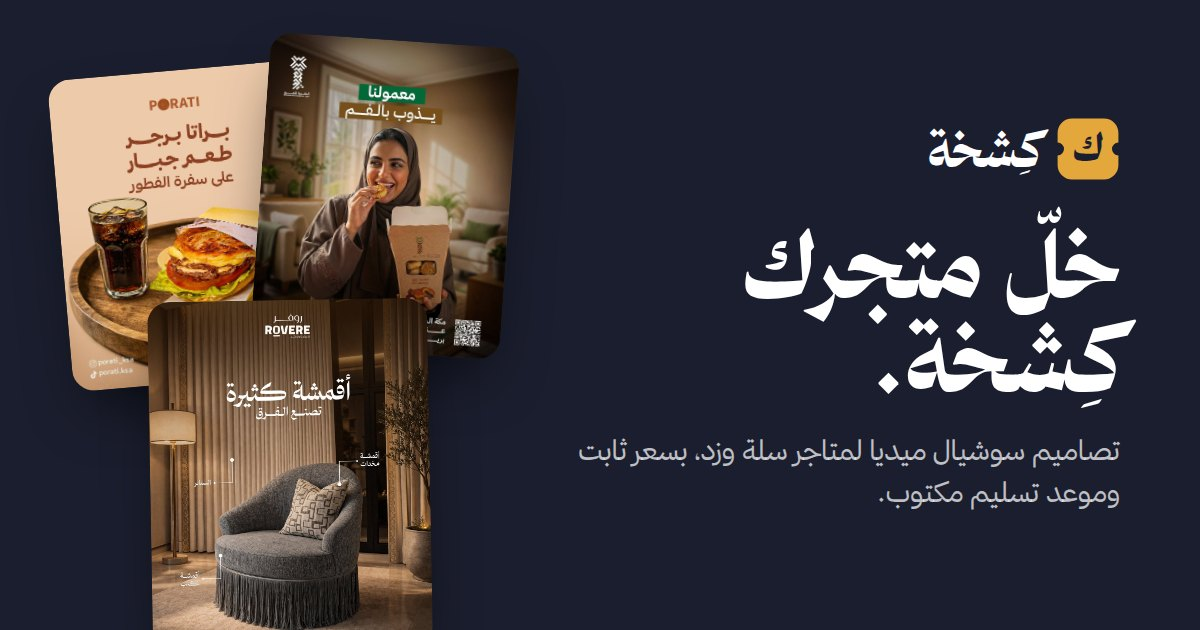
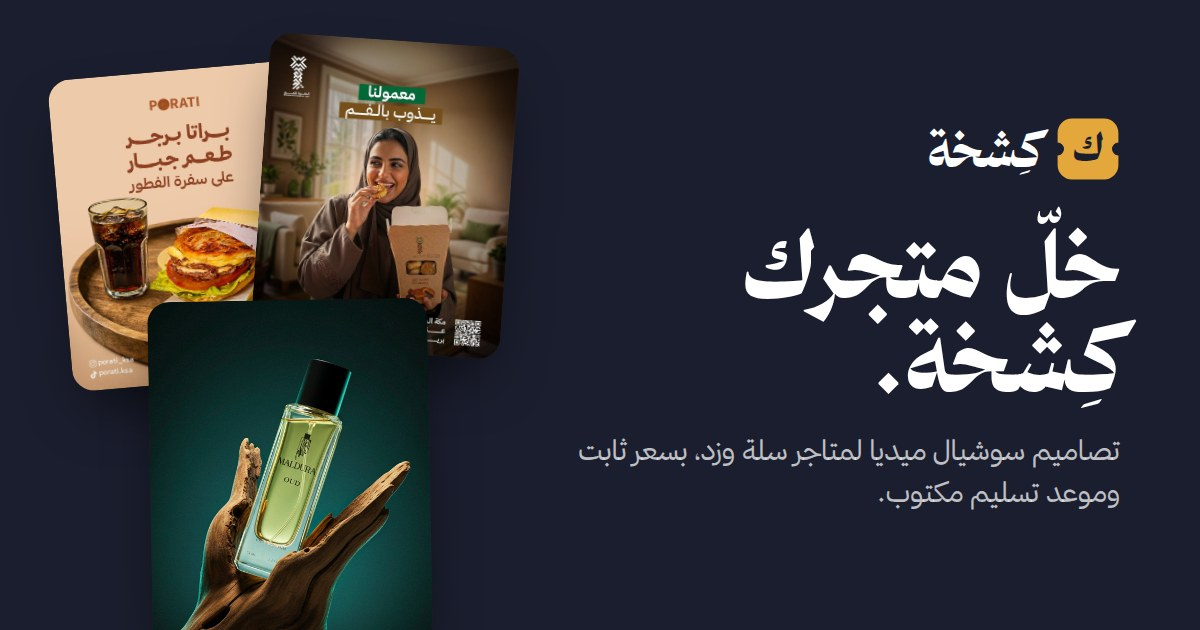
Remove Rovere work, new preview image

Changed region(s): [[0.1233, 0.4524, 0.37, 1.0]]

diff --git a/index.html b/index.html
@@ -284,7 +284,7 @@ footer .wrap{display:flex;flex-wrap:wrap;justify-content:space-between;gap:14px;
         </div>
       </div>
       <div class="stack">
-        <figure class="s2"><img src="img/work/rovere-2.jpg" alt="إعلان أقمشة روفر: كرسي منجّد بقماش رمادي" width="1000" height="1333"></figure>
+        <figure class="s2"><img src="img/work/tomor-2.jpg" alt="إعلان تمور مكة: معمول يذوب بالفم" width="1000" height="1250"></figure>
         <figure class="s1"><img src="img/work/maalem-4.jpg" alt="إعلان عطر معالم: زجاجة عود فوق خشب" width="1000" height="1250"></figure>
         <figure class="s3"><img src="img/work/essence-3.jpg" alt="بانر عطور إسنس فوق مدينة الرياض ليلًا" width="1200" height="600"></figure>
         <div class="ticket slip" role="note">
@@ -298,7 +298,7 @@ footer .wrap{display:flex;flex-wrap:wrap;justify-content:space-between;gap:14px;
     </div>
   </section>
 
-  <div class="brands"><div class="wrap"><small>صمّمنا لعلامات منها</small><span>تمور مكة</span><span>بوراتي</span><span>روفر</span><span>معالم</span><span>إسنس</span></div></div>
+  <div class="brands"><div class="wrap"><small>صمّمنا لعلامات منها</small><span>تمور مكة</span><span>بوراتي</span><span>معالم</span><span>إسنس</span></div></div>
 
   <section>
     <div class="wrap">
@@ -328,7 +328,7 @@ footer .wrap{display:flex;flex-wrap:wrap;justify-content:space-between;gap:14px;
 
   <section id="work" style="padding-top:0">
     <div class="wrap">
-      <div class="sec-head rv"><h2>من شغلنا</h2><p>إعلانات منتجات صمّمناها لمتاجر أغذية وعطور وأقمشة.</p></div>
+      <div class="sec-head rv"><h2>من شغلنا</h2><p>إعلانات منتجات صمّمناها لمتاجر تمور وعطور ومطاعم.</p></div>
 
       <article class="case rv">
         <div class="case-head"><h3>تمور مكة</h3><p>تمور ومعمول · إعلانات منتج ومحتوى تفاعلي</p></div>
@@ -338,11 +338,6 @@ footer .wrap{display:flex;flex-wrap:wrap;justify-content:space-between;gap:14px;
       <article class="case rv">
         <div class="case-head"><h3>بوراتي</h3><p>مطعم برجر · إعلانات منتج وحملة رمضان</p></div>
         <div class="bento" id="bento-porati"></div>
-      </article>
-
-      <article class="case rv">
-        <div class="case-head"><h3>روفر</h3><p>أقمشة تنجيد وستائر · إعلانات منتج وكتالوج الأقمشة</p></div>
-        <div class="bento" id="bento-rovere"></div>
       </article>
 
       <article class="case rv">
@@ -486,10 +481,10 @@ footer .wrap{display:flex;flex-wrap:wrap;justify-content:space-between;gap:14px;
 document.documentElement.lang="ar";document.documentElement.dir="rtl";
 (function(){
   var P={
-    rovere:{n:"روفر",t:"أقمشة وستائر"},essence:{n:"إسنس",t:"عطور"},
+    essence:{n:"إسنس",t:"عطور"},
     maalem:{n:"معالم",t:"عطور"},tomor:{n:"تمور مكة",t:"تمور ومعمول"},porati:{n:"بوراتي",t:"مطعم برجر"}
   };
-  var COUNT={rovere:15,essence:3,maalem:6,porati:6,tomor:8};
+  var COUNT={essence:3,maalem:6,porati:6,tomor:8};
 
   function el(t,a,k){var e=document.createElement(t);if(a)for(var n in a){if(n==="text")e.textContent=a[n];else if(n==="cls")e.className=a[n];else e.setAttribute(n,a[n]);}(k||[]).forEach(function(c){if(c)e.appendChild(c);});return e;}
 
@@ -513,7 +508,6 @@ document.documentElement.lang="ar";document.documentElement.dir="rtl";
       b.onclick=function(){openLb(arr,i);};box.appendChild(b);});}
   bento("bento-tomor",[["tomor-2","b-q"],["tomor-1","b-q"],["tomor-3","b-q"],["tomor-6","b-q"],["tomor-4","b-q"],["tomor-5","b-q"],["tomor-7","b-q"],["tomor-8","b-q"]]);
   bento("bento-porati",[["porati-1","b-t"],["porati-4","b-t"],["porati-3","b-t"],["porati-5","b-t"],["porati-6","b-t"],["porati-2","b-t"]]);
-  bento("bento-rovere",[["rovere-2","b-port"],["rovere-3","b-port"],["rovere-4","b-port"],["rovere-6","b-port"],["rovere-1","b-port"],["rovere-5","b-port"],["rovere-10","b-port"],["rovere-8","b-port"]]);
   bento("bento-maalem",[["maalem-4","b-t"],["maalem-1","b-t"],["maalem-2","b-t"],["maalem-3","b-t"],["maalem-5","b-t"],["maalem-6","b-t"]]);
   bento("bento-essence",[["essence-3","b-third"],["essence-1","b-third"],["essence-2","b-third"]]);
 
